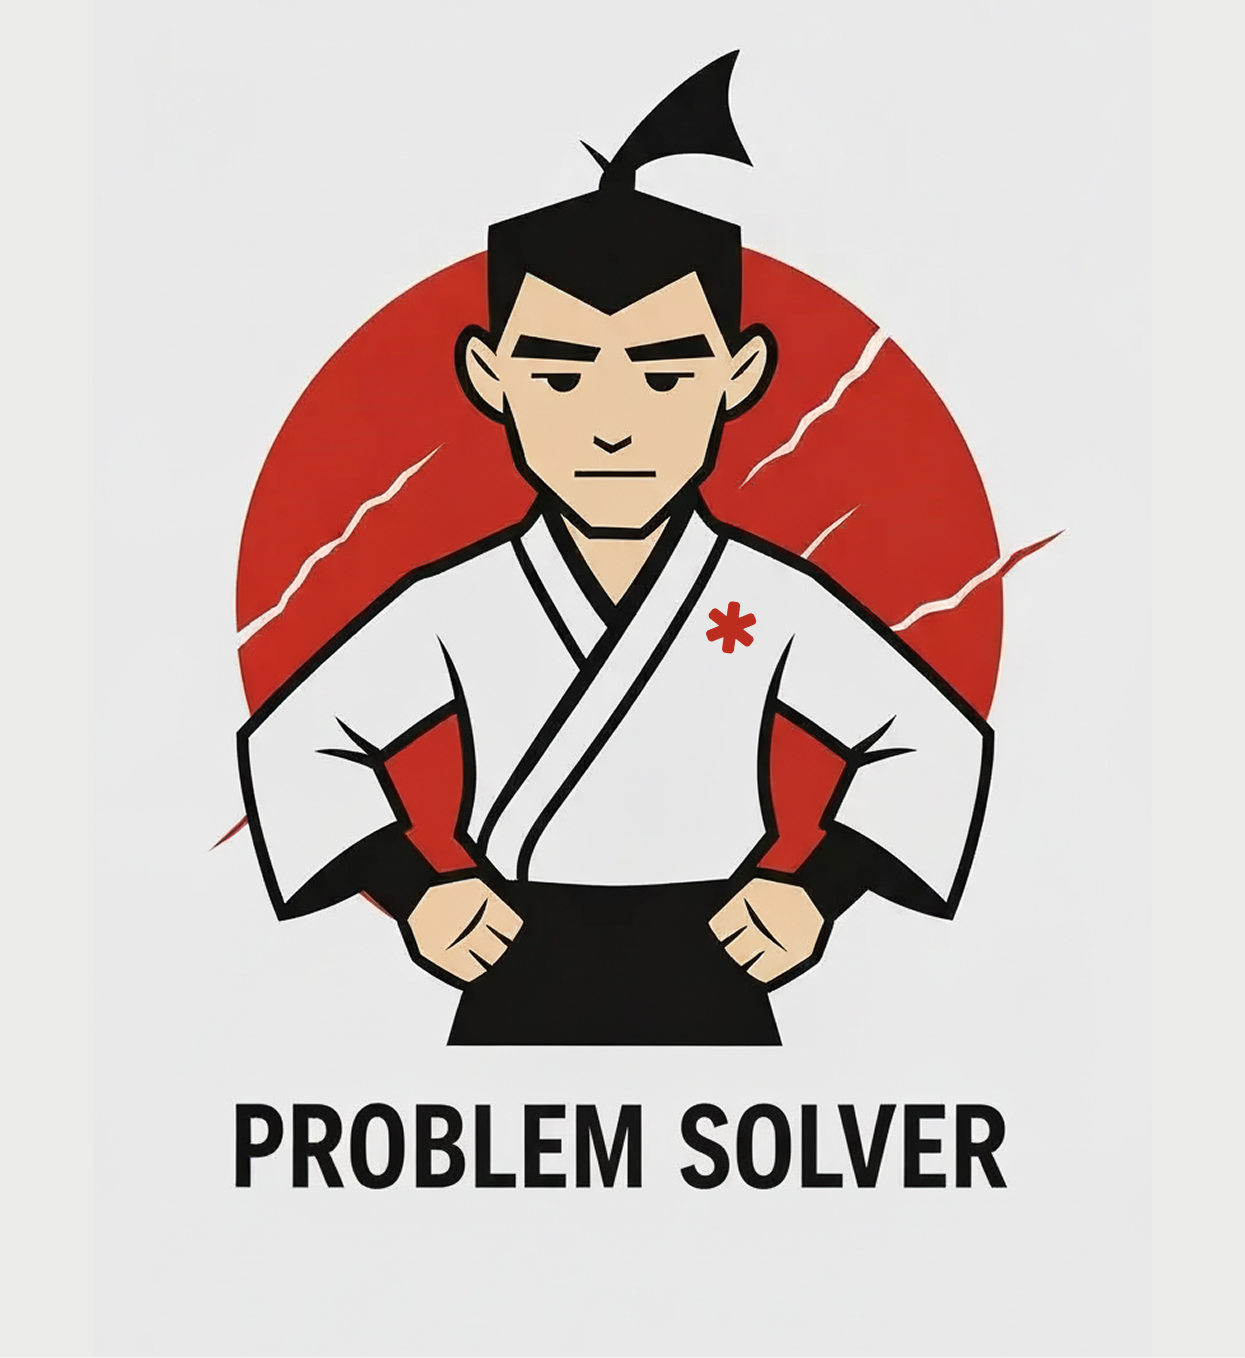
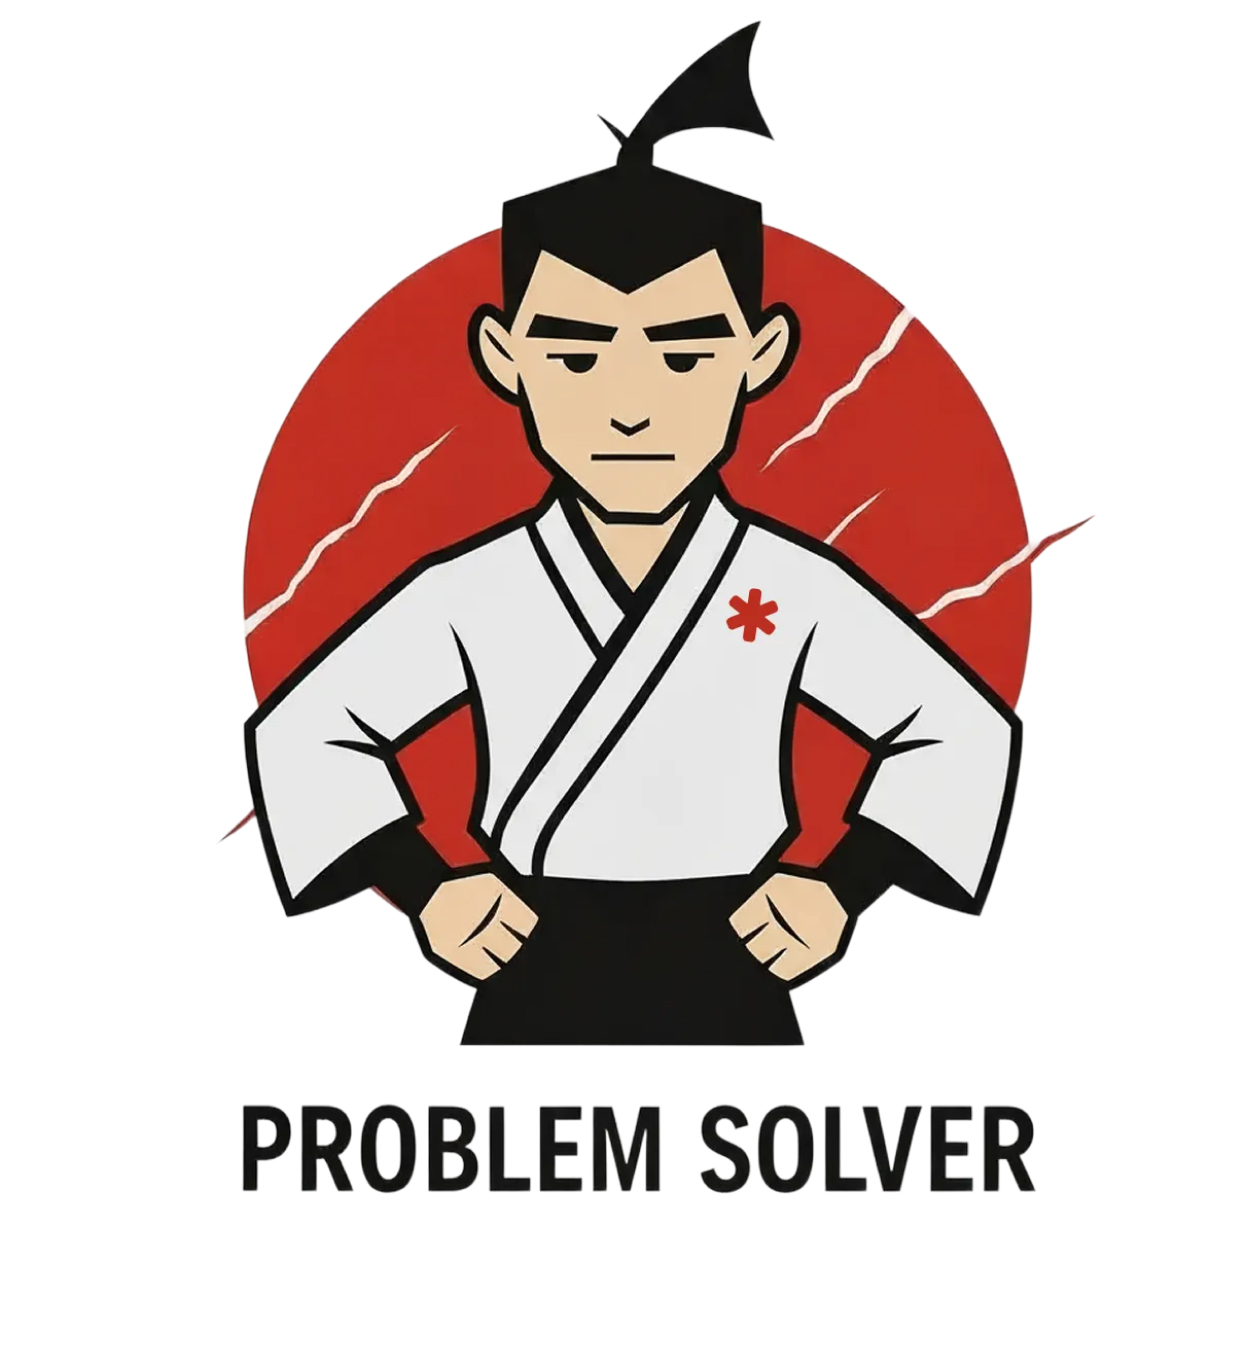
Update prompt: remove hands constraint, change background to white; update reference images

diff --git a/badge_bot.py b/badge_bot.py
@@ -392,11 +392,10 @@ def generate_image_with_lora(scene_description: str, user_id: int, reference_ima
             pose_prompt,
             "upper body only",
             scene_description,
-            "anatomically correct two hands only",
             "if holding sword then single katana held with both hands",
             "large red circle behind the character with white diagonal scratch marks across it",
             "red sun with white claw scratches",
-            "plain light grey background",
+            "plain white background",
             "isolated character",
             "centered composition",
             "solo character",
